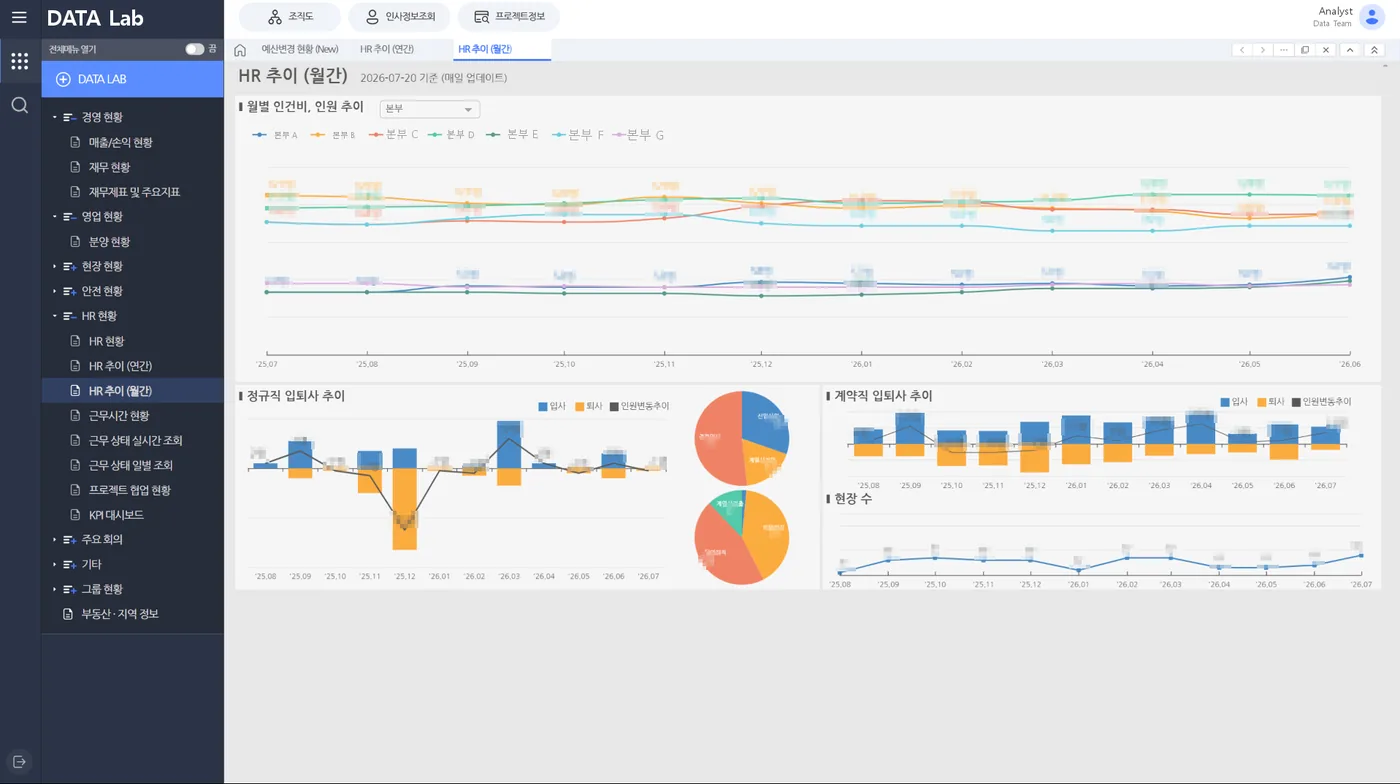
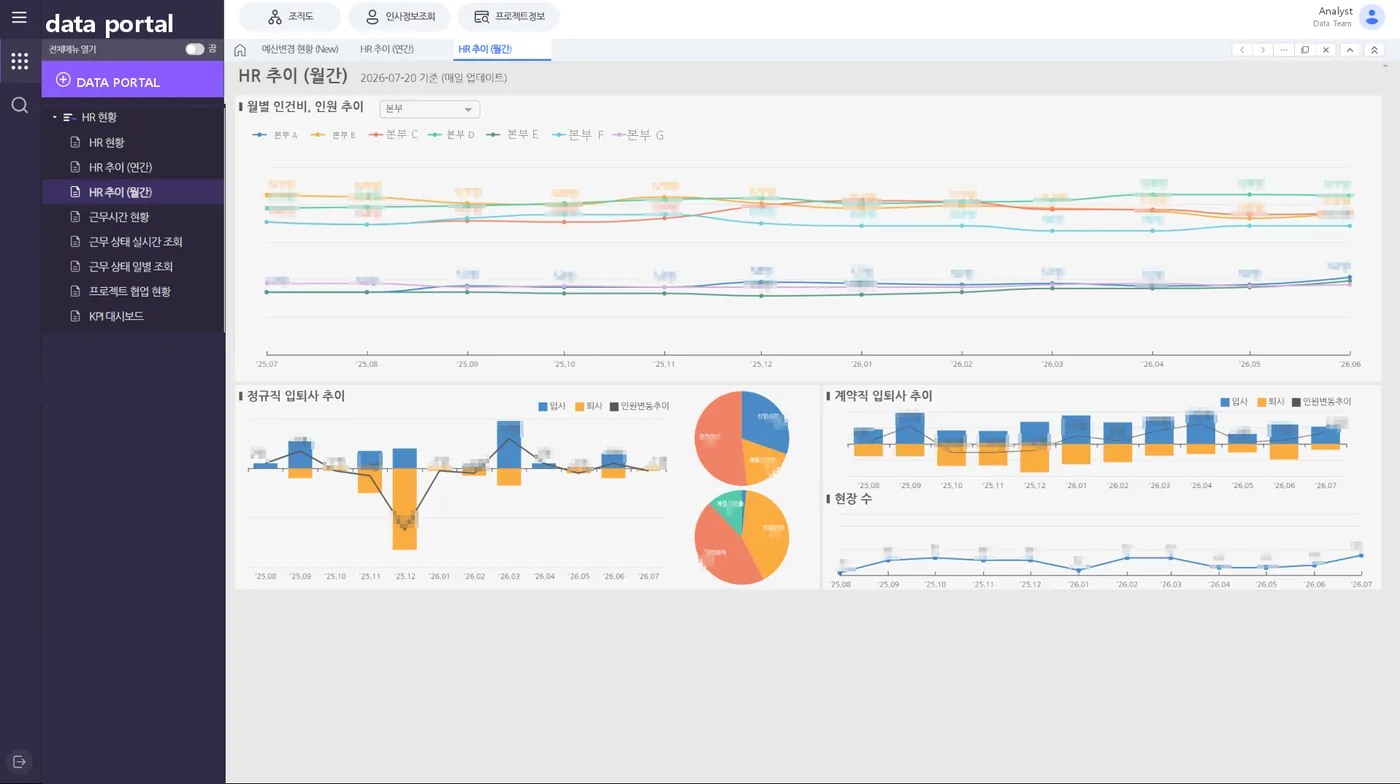
deploy: 히어로 캐러셀 확장 + 사이드바 리디자인
- 히어로 캐러셀 5→10장 (지도·히트맵·위성·HR·예산 화면 추가, 모두 마스킹·데모)
- screen-11·14 사이드바: indigo 톤 + data portal 브랜드 + HR 섹션만

Changed region(s): [[0.0307, 0.0, 0.1843, 0.7959]]

diff --git a/index.html b/index.html
@@ -4,7 +4,7 @@
   landing/index.html 을 생성한다. 이 파일을 직접 브라우저로 열면 {{...}} 자리표시자가 그대로 보인다.
 
   자리표시자 목록 (build_landing.py 가 채운다):
-    17 완료 12 · 운영중 3 · 진행중 2 7 년+ 데이터·공간데이터 직군 누적 400
+    17 완료 12 · 운영중 3 · 진행중 2 7 년+ 데이터·공간데이터 직군 누적 406
     https://halodata.streamlit.app  — Streamlit 대시보드 절대 URL
     597a2112-2810-45c9-bb63-959b747ed4eb  — 환경변수에서 주입 (없으면 폼 대신 메일 주소 안내가 뜬다)
     2026-07-23       — 빌드 시각 (푸터 표기)
@@ -76,9 +76,14 @@
     <div class="ca-carousel" data-carousel>
       <img class="is-active" src="assets/screens/halo-overview.webp" data-cap="Career Overview · 직접 운영 중인 커리어 대시보드" alt="직접 운영 중인 커리어 대시보드 Overview 화면 — 프로젝트 수·경력·빌드 활동·역량 분포 차트" loading="eager" width="1400" height="737">
       <img src="assets/screens/screen-11.webp" data-cap="조직 인원 추이 · 월별 인건비·입퇴사 대시보드" alt="조직 인원 추이를 꺾은선·막대로 보여주는 운영 대시보드 — 수치는 가림 처리" loading="eager" width="1917" height="1073">
-      <img src="assets/screens/screen-19.webp" data-cap="위성 영상 분석 · 멀티스펙트럼 타일 뷰" alt="위성 멀티스펙트럼 영상을 타일로 배치한 분석 화면" loading="eager" width="839" height="525">
+      <img src="assets/screens/screen-15.webp" data-cap="글로벌 매출 분포 · 지도·랭킹 뷰" alt="세계 지도 위에 매출 규모를 버블로 얹고 고객사별 순위를 막대로 정렬한 대시보드" loading="lazy" width="1029" height="402">
+      <img src="assets/screens/screen-04.webp" data-cap="프로젝트·업무 현황 · 관계 히트맵" alt="프로젝트와 업무 개수를 막대·히트맵 그리드로 보여주는 현황 대시보드 — 수치는 가림 처리" loading="lazy" width="1915" height="1243">
+      <img src="assets/screens/screen-19.webp" data-cap="위성 영상 분석 · 멀티스펙트럼 타일 뷰" alt="위성 멀티스펙트럼 영상을 타일로 배치한 분석 화면" loading="lazy" width="839" height="525">
+      <img src="assets/screens/screen-14.webp" data-cap="HR 현황 · 인원·연봉·직급 분포" alt="인원·평균 연봉·직급·세대 분포를 도넛·막대로 보여주는 HR 대시보드 — 수치는 가림 처리" loading="lazy" width="1904" height="1076">
       <img src="assets/screens/screen-16.webp" data-cap="산업별 운영 대시보드 · 통신 · 제조 · 모빌리티 · 환경" alt="여러 산업 도메인의 대시보드 화면 모음" loading="lazy" width="1329" height="535">
+      <img src="assets/screens/screen-18.webp" data-cap="위성 영상 분류 · 토지피복 false-color" alt="위성 영상을 토지피복 false-color 로 분류하고 조건 필터로 조회하는 지오공간 분석 화면" loading="lazy" width="924" height="441">
       <img src="assets/screens/screen-17.webp" data-cap="센서 시계열 · 설비 모니터링 화면" alt="센서 시계열 데이터를 다중 패널로 보여주는 모니터링 화면" loading="lazy" width="1292" height="525">
+      <img src="assets/screens/screen-05.webp" data-cap="예산 변경 현황 · 현장별 집계" alt="현장별 예산 변경 건수·금액을 표로 집계한 대시보드 — 수치는 가림 처리" loading="lazy" width="1921" height="1181">
     </div>
     <figcaption class="ca-v5-cap" data-carousel-caption>Career Overview · 직접 운영 중인 커리어 대시보드</figcaption>
   </figure>
